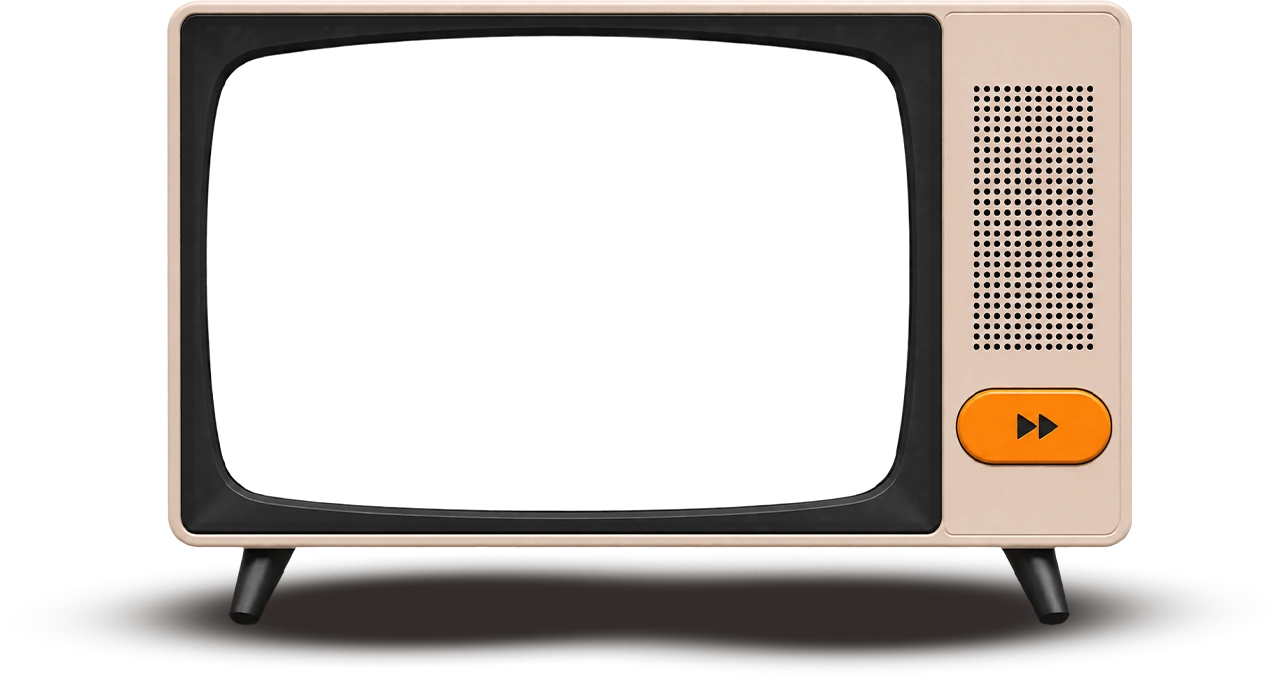
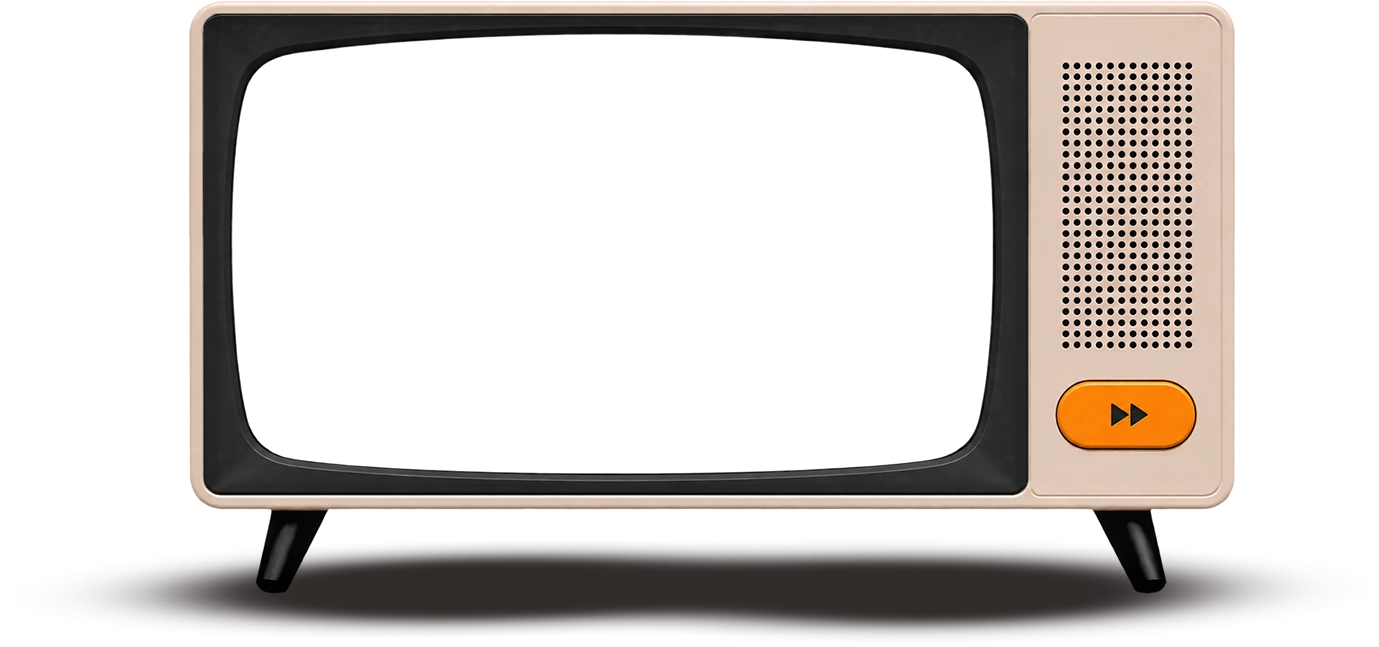
New 16:9 TV, stronger film grain

Changed region(s): [[0.122, 0.0, 0.9148, 0.9892]]

diff --git a/index.html b/index.html
@@ -12,7 +12,7 @@
   html,body{margin:0;height:100%;background:#2a1f17;overflow:hidden}
 
   /* moving film grain over everything */
-  #grain{position:fixed;inset:-50%;z-index:20;pointer-events:none;background:url(ui/grain.png);opacity:.09;mix-blend-mode:overlay;animation:grain .9s steps(6) infinite}
+  #grain{position:fixed;inset:-50%;z-index:20;pointer-events:none;background:url(ui/grain.png);opacity:.2;mix-blend-mode:overlay;animation:grain .9s steps(6) infinite}
   @keyframes grain{0%{transform:translate(0,0)}17%{transform:translate(-6%,4%)}33%{transform:translate(5%,-7%)}50%{transform:translate(-3%,8%)}67%{transform:translate(8%,2%)}83%{transform:translate(-8%,-4%)}100%{transform:translate(0,0)}}
 
   /* fullscreen button, fixed to the window's top-right corner */
@@ -36,10 +36,11 @@
   .bg.show{opacity:1}
 
   /* ---------- TV (still image over the background) ----------
-     tv.webp is 1279×678; its screen is a transparent hole at 207–908 × 37–509. */
-  #tv{position:absolute;left:316px;top:247px;width:1279px;height:678px;z-index:1}
+     tv.webp is 1379×647, laid out in its own pixels and scaled into the scene;
+     its screen is a transparent 16:9 hole at 232–992 × 34–473. */
+  #tv{position:absolute;left:308px;top:316px;width:1379px;height:647px;z-index:1;transform:scale(.9243);transform-origin:0 0}
   #tv .png{position:absolute;inset:0;width:100%;height:100%;pointer-events:none;user-select:none;z-index:2}
-  #screen{position:absolute;left:205px;top:35px;width:706px;height:477px;overflow:hidden;background:#0b0b0a;z-index:1;--zoom:1}
+  #screen{position:absolute;left:230px;top:32px;width:765px;height:444px;overflow:hidden;background:#0b0b0a;z-index:1;--zoom:1}
   #yt{position:absolute;top:50%;left:50%;height:calc(100% * var(--zoom));aspect-ratio:16/9;transform:translate(-50%,-50%);pointer-events:none;opacity:0;transition:opacity .4s}
   #yt.on{opacity:1}
   #yt iframe{width:100%;height:100%;border:0;display:block}
@@ -47,13 +48,13 @@
   #static.on{opacity:.5}
   #screen::after{content:"";position:absolute;inset:0;pointer-events:none;box-shadow:inset 0 0 50px 8px rgba(0,0,0,.45)}
   /* clicks on the screen (the player never gets the mouse, so YouTube never shows its UI) */
-  #tap{position:absolute;left:207px;top:37px;width:702px;height:473px;z-index:3;border:0;padding:0;background:none;cursor:pointer}
-  #osd{position:absolute;left:240px;top:62px;z-index:3;width:44px;height:44px;color:#9ef59a;filter:drop-shadow(0 0 6px rgba(158,245,154,.8));opacity:0;transition:opacity .3s;pointer-events:none}
+  #tap{position:absolute;left:232px;top:34px;width:761px;height:440px;z-index:3;border:0;padding:0;background:none;cursor:pointer}
+  #osd{position:absolute;left:262px;top:58px;z-index:3;width:44px;height:44px;color:#9ef59a;filter:drop-shadow(0 0 6px rgba(158,245,154,.8));opacity:0;transition:opacity .3s;pointer-events:none}
   #osd.on{opacity:.9;animation:blink 1.6s steps(1) infinite}
   @keyframes blink{50%{opacity:.25}}
   /* big "next" button, with its pressed artwork shown briefly on press */
-  #next{position:absolute;left:952px;top:384px;width:164px;height:84px;z-index:3;border:0;padding:0;background:none;cursor:pointer;border-radius:42px;-webkit-tap-highlight-color:transparent}
-  #pressed{position:absolute;left:951.5px;top:365px;width:172.8px;height:122.7px;z-index:2;pointer-events:none;opacity:0}
+  #next{position:absolute;left:1050px;top:376px;width:151px;height:76px;z-index:3;border:0;padding:0;background:none;cursor:pointer;border-radius:38px;-webkit-tap-highlight-color:transparent}
+  #pressed{position:absolute;left:1051.1px;top:358.7px;width:156.8px;height:111.3px;z-index:2;pointer-events:none;opacity:0}
   #pressed.on{opacity:1}
   #tap:focus,#next:focus{outline:none}
   #next:focus-visible{box-shadow:0 0 0 4px rgba(224,104,42,.6)}
@@ -168,7 +169,7 @@
 
   /* ---------- Fit: keep the TV and all toggles in view ---------- */
   const F = { x0: 170, y0: 85, x1: 1825, y1: 1035 };   // focus area (title, TV, toggles, duration picker), source pixels
-  const TVC = { x: 965, y: 561 };                       // TV centre
+  const TVC = { x: 966, y: 596 };                       // TV centre
   const fw = F.x1 - F.x0, fh = F.y1 - F.y0, fcx = (F.x0 + F.x1) / 2, fcy = (F.y0 + F.y1) / 2;
   const clamp = (v, lo, hi) => Math.min(hi, Math.max(lo, v));
   function layout() {
